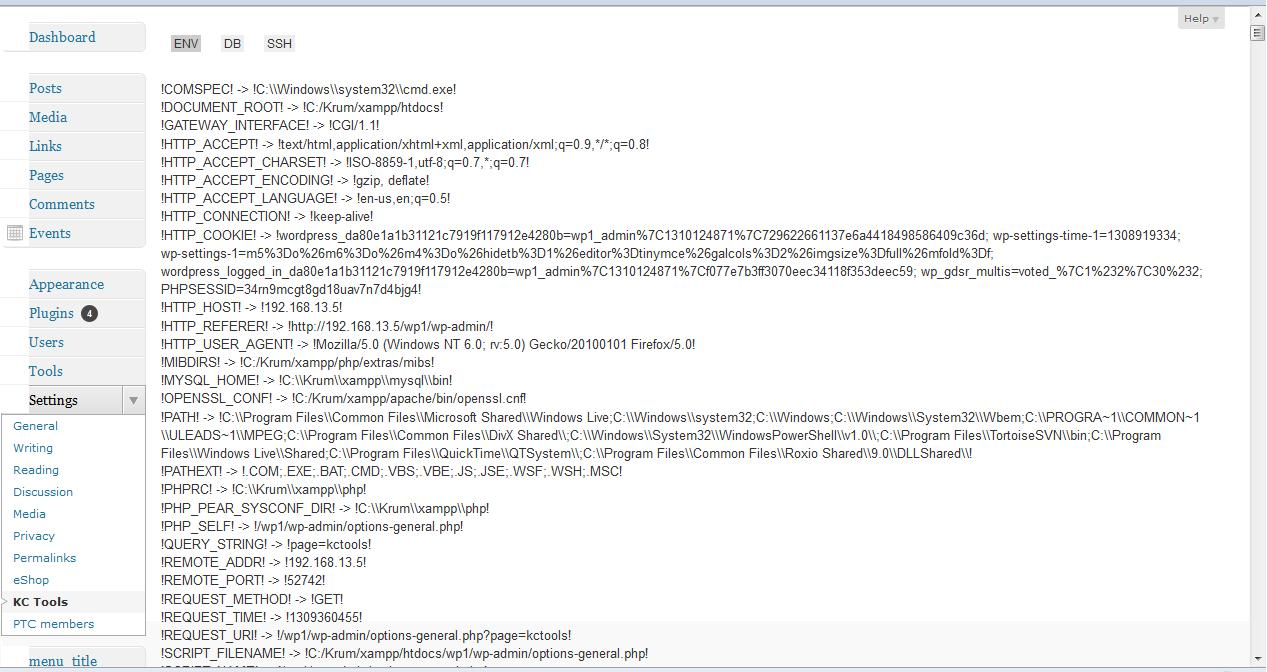
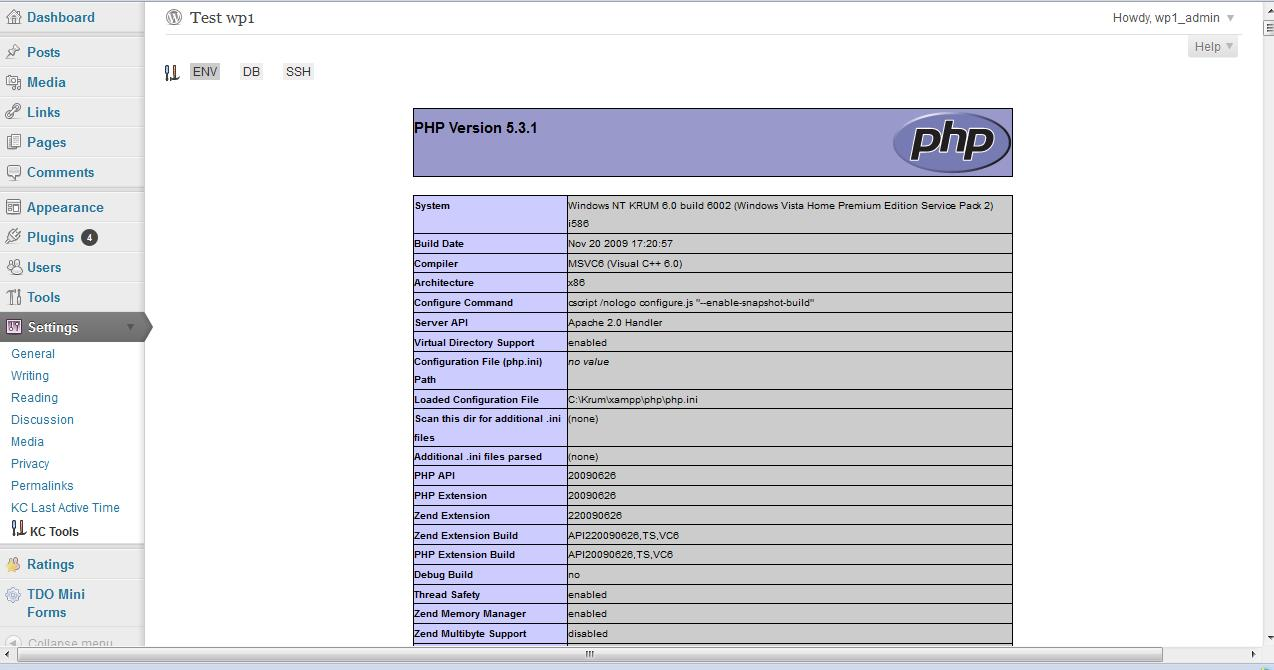
git-svn-id: https://plugins.svn.wordpress.org/kc-tools/trunk@543265 b8457f37-d9ea-0310-8a92-e5e31aec5664

diff --git a/kctools.php b/kctools.php
@@ -1,12 +1,12 @@
 <?php 
 /* 
-	Plugin Name: KC Tools
+	Plugin Name: KC Tools WP
 	Plugin URI: http://krumch.com/kctools.html
 	Description: Brain surgery for WEB-sites (System info, DB access and SSH over HTTP)
 	Author: Krum Cheshmedjiev
-	Copyright: © 2011 Krum Cheshmedjiev
+	Copyright: © 2012 Krum Cheshmedjiev
 	Author URI: http://krumch.com
-	Version: 20110601
+	Version: 20120512
 */  
 
 
@@ -31,7 +31,7 @@ function kctools() {
 		print '" onclick="document.kct.tab.value=\'db\';document.kct.submit();">&nbsp;DB&nbsp;</li>';
 		print '<li class=kcthand style="float:left;position:relative;margin:10px;background-color:';
 		print ($tab == 'ssh')?'#ccc':'#eee';
-		print '" onclick="document.kct.tab.value=\'ssh\';document.kct.submit();">&nbsp;SSH&nbsp;</li></ul></div><br><br><br><div style="width:100%;">';
+		print '" onclick="document.kct.tab.value=\'ssh\';document.kct.submit();">&nbsp;SSH&nbsp;</li></ul></div><br><br><br><div id="kctools" style="width:80%;float:left;border-right:1px dotted black;">';
 		switch ($tab) {
 			case 'db':
 				global $wpdb;
@@ -85,18 +85,51 @@ function kctools() {
 				print "<script lang=JavaScript>\ndocument.kct.query.focus();\n</script>";
 				break;
 			default:
-				ksort($_SERVER);
-				foreach($_SERVER as $keys => $values) {
-					print "!$keys! -> !$values!<br>\n";
+				ob_start();
+				phpinfo();
+				$body = array();
+				$b = explode('style', ob_get_clean(), 3);
+				list($temp,) = explode('>', $b[1], 2);
+				$body[1] = "<style$temp>";
+				list(,$temp) = explode('>', $b[1], 2);
+				$body[2] = substr(str_replace(array('<!--', '-->'), '', $temp), 0, -2);
+				$body[3] = "</style>";
+				list(,$temp,) = explode('body>', $b[2], 3);
+				$body[4] = substr($temp, 0, -2);
+				$styles = explode('}', trim(str_replace("\n", '', $body[2])));
+				$rez = array();
+				foreach($styles as $st) {
+					list($tags, $set) = explode('{', $st);
+					$tags = trim($tags);
+					if(strpos($tags, ',')) {
+						$rt = '';
+						foreach(explode(',', $tags) as $t) {
+							$t = kctsetit(trim($t));
+							if($t) {
+								if($rt) $rt .= ', ';
+								$rt .= $t;
+							}
+						}
+						$tags = $rt;
+					} else {
+						$tags = kctsetit($tags);
+					}
+					if($tags) $rez[] = $tags.' {'.$set;
 				}
-				print "<br><br><br>\n";
-				phpinfo();			
+				$body[2] = implode("}\n", $rez)."}\n";
+				echo $body[1].$body[2].$body[3].$body[4];
 				break;
 		}
-		print "</div>";
+		print "</div><div style=\"float:left;width:19%\"><iframe width=\"100%\" height=\"500\" src=\"http://krumch.com/kc_news.php?src=kct_wp\"></iframe></div>";
 	}
 	print "</form>";
 	return;
+}
+
+function kctsetit($tag) {
+	if(strpos($tag, 'body') === 0) return '';
+	if($tag == '') return '';
+	return "#kctools $tag";
 }
 
 function kctools_activate() {
